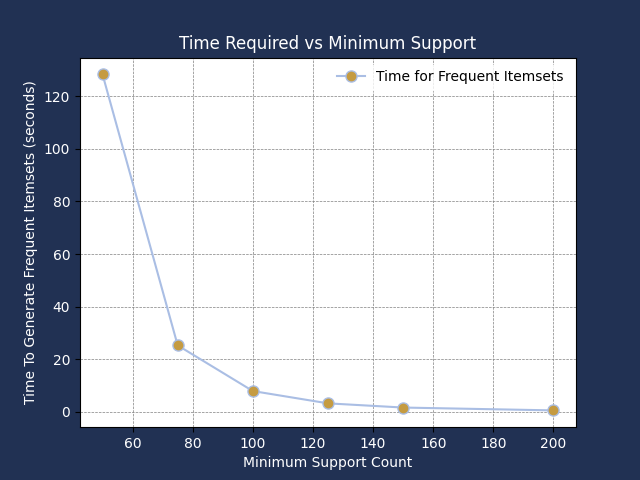
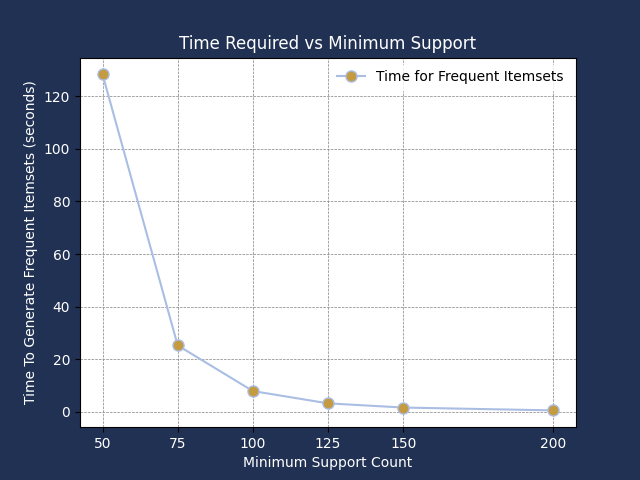
plots style finished

diff --git a/generate-plots03.py b/generate-plots03.py
@@ -23,7 +23,7 @@ marker_color = "#c59b41" #Gold marker
 plt.figure(facecolor = background_color)
 
 # Plot time vs minsupp
-plt.plot(minsupp_values, times_frequent_itemsets, marker='o', color=line_color, markerfacecolor=marker_color, markersize=8, label="Time for Frequent Itemsets")
+plt.plot(minsupp_values, times_frequent_itemsets, marker='o', color=line_color,linestyle = '-', markerfacecolor=marker_color, markersize=8, label="Time for Frequent Itemsets")
 plt.xlabel('Minimum Support Count', color='white')
 plt.ylabel('Time To Generate Frequent Itemsets (seconds)', color='white')
 plt.title('Time Required vs Minimum Support', color='white')
@@ -31,7 +31,7 @@ plt.grid(True, linestyle='--', linewidth=0.5, color='gray')
 plt.legend(edgecolor= 'white')
 
 # Set tick colors
-plt.xticks(color='white')
+plt.xticks(minsupp_values, color='white')
 plt.yticks(color='white')
 plt.show()
 
@@ -59,8 +59,9 @@ plt.grid(True, linestyle='--', linewidth=0.5, color='gray')
 plt.legend(edgecolor= 'white')
 
 # Set tick colors
-plt.xticks(color='white')
+plt.xticks(minsupp_values,color='white')
 plt.yticks(color='white')
+
 plt.show()
 
 # Define the minconf values
@@ -88,6 +89,6 @@ plt.grid(True, linestyle='--', linewidth=0.5, color='gray')
 plt.legend(edgecolor= 'white')
 
 # Set tick colors
-plt.xticks(color='white')
+plt.xticks(minconf_values, color='white')
 plt.yticks(color='white')
 plt.show()
